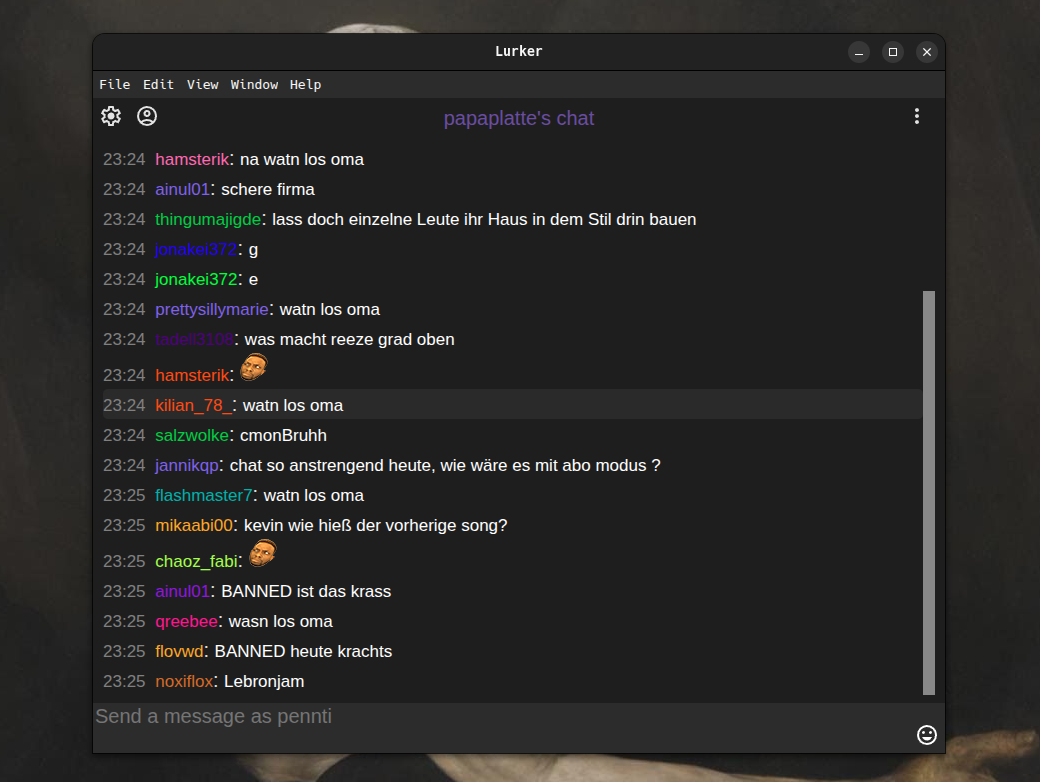
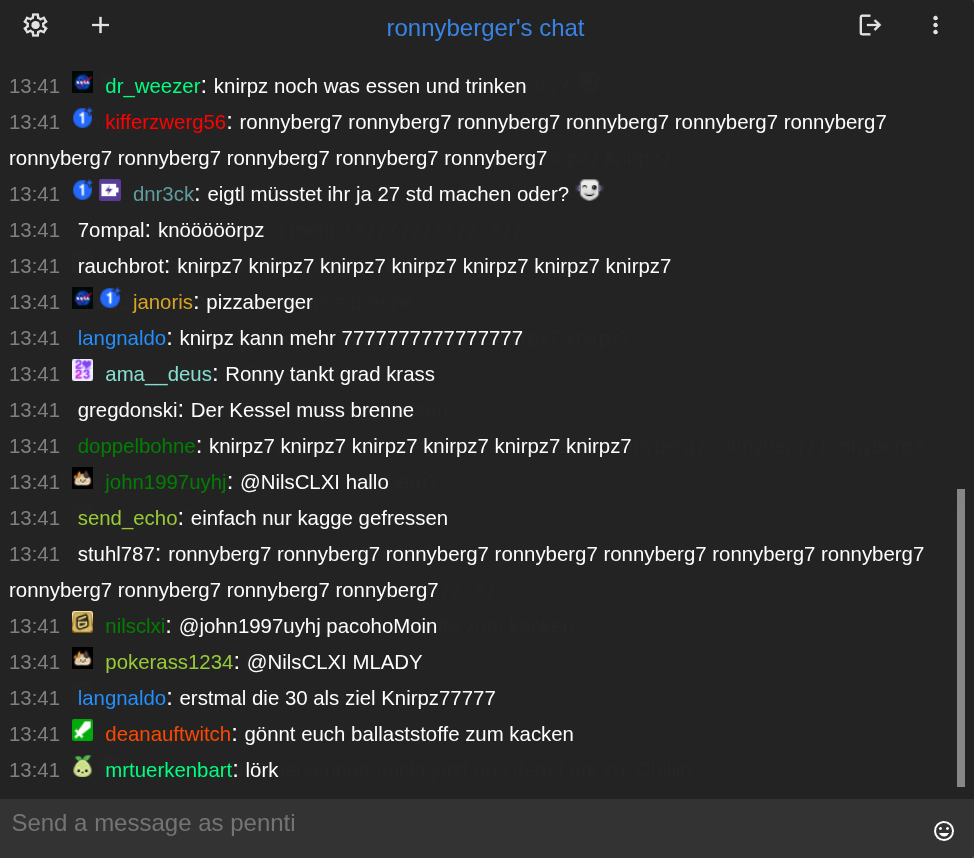
changed lurker img/changed key features/

Changed region(s): [[0.0, 0.0, 1.0, 1.0], [0.0308, 0.0, 0.0616, 0.0614], [0.8624, 0.0307, 0.8932, 0.0614]]

diff --git a/src/hero/hero.css b/src/hero/hero.css
@@ -1,20 +1,20 @@
-.container{
+.container {
   position: absolute;
   top: 40px;
-  left:0px;
-  right:0px;
+  left: 0px;
+  right: 0px;
   bottom: 0px;
   background-color: var(--hero-bg-color);
 }
 
-.desc{
-  color: #D9D9D9;
+.desc {
+  color: #d9d9d9;
   width: 400px;
-  text-align:left;
+  text-align: left;
   margin-bottom: 10px;
 }
 
-.downloads{
+.downloads {
   display: flex;
   margin-bottom: 400px;
   flex-direction: column;
@@ -24,11 +24,11 @@
   background-color: var(--bg-color);
 }
 
-.downloads a{
+.downloads a {
   margin-bottom: 300px;
 }
 
-.linux{
+.linux {
   background-color: var(--blue-color);
   border-radius: 10px;
   height: 90px;
@@ -37,39 +37,37 @@
   transition: 0.3s ease;
 }
 
-.lurker-chat{
+.lurker-chat {
   float: right;
   margin-right: 200px;
-  margin-top: -450px;
+  margin-top: -500px;
   transition: 0.3s ease;
 }
 
-.lurker-chat:hover{
+.lurker-chat:hover {
   transform: scale(1.01);
 }
 
-.linux img{
+.linux img {
   float: left;
   margin-top: 20px;
 }
 
-.linux h2{
+.linux h2 {
   color: white;
   font-size: 20px;
   margin-top: 40px;
   font-weight: bold;
-
 }
 
-.linux:hover{
+.linux:hover {
   transform: scale(1.02);
 }
 
-section{
+section {
   background-color: var(--hero-bg-color);
-
 }
-.features{
+.features {
   height: 150vh;
   display: flex;
   flex-direction: column;
@@ -80,48 +78,55 @@ section{
   text-align: center;
 }
 
-.features-box{
+.features-box {
   background-color: var(--grey-color);
   padding: 10px;
-  width: 360px;
-  height: 300px;
-  border-radius: 10px;
+  width: 450px;
+  height: 250px;
+  border-radius: 0px;
+  border: 1px solid #333;
   transition: 0.3s ease;
 }
 
-.features-box:hover{
-  transform: scale(1.02) ;
+.features-box:hover {
+  transform: scale(1.02);
 }
 
-.features-box span{
-  color: rgba(163,163,163);
+.features-box p {
+  color: rgba(163, 163, 163);
   font-size: 25px;
+  text-align: justify;
+  margin: 30px;
+  margin-top: -20px;
 }
 
-.features-box h1{
+.features-box h1 {
+  display: flex;
+  justify-content: left;
+  margin-left: 0px;
   font-size: 30px;
+  margin-bottom: 0px;
+  font-weight: medium;
+  margin: 30px;
 }
 
-.layout{
+.layout {
   display: flex;
   flex-direction: column;
-  text-align:left;
+  text-align: left;
 }
 
-h2{
+h2 {
   color: white;
 }
 
-
-
-.feature-grid{
-  display:grid;
-  grid-template-columns: repeat(3,1fr);
+.feature-grid {
+  display: grid;
+  grid-template-columns: repeat(2, 1fr);
   gap: 40px;
 }
 
-
-.hero-text{
+.hero-text {
   display: grid;
   margin-top: 200px;
   justify-content: left;
@@ -129,20 +134,17 @@ h2{
   text-align: center;
 }
 
-
-.preview{
+.preview {
   display: flex;
   justify-content: right;
-
 }
 
-.hero-text h1{
+.hero-text h1 {
   margin-bottom: 0px;
   margin-left: -80px;
 }
 
-.hero-text span{
+.hero-text span {
   color: #949494;
   font-size: 30px;
 }
-

diff --git a/src/hero/hero.html b/src/hero/hero.html
@@ -2,61 +2,49 @@
 <div class="container" #home id="home">
   <div class="hero-text">
     <h1>Lurker</h1>
-    <span class="desc">opensource chat client  for twitch.tv</span>
-    <br>
+    <span class="desc">opensource chat client for twitch.tv</span>
+    <br />
     <a target="_blank" href="https://github.com/Moritz344/lurker/releases">
-    <div class="linux" #downloads>
-      <img width="50" height="50" src="linux.png">
-      <h2>Download for Linux</h2>
-    </div>
+      <div class="linux" #downloads>
+        <img width="50" height="50" src="linux.png" />
+        <h2>Download for Linux</h2>
+      </div>
     </a>
   </div>
 
   <div class="lurker-chat">
-    <img src="chat.png">
+    <img width="800" src="lurker.png" />
   </div>
 
-
-
-  <section class="features" id="features" >
+  <section class="features" id="features">
     <h1>Features</h1>
     <div class="feature-grid" #features>
       <div class="features-box">
         <h1 style="text-align: center">Chat</h1>
-          <span>
-          View chat messages. View badges and emotes. See user colors for chatters. Click on any username to open their user profile card
-          </span>
+        <p>Send and receive messages in real-time</p>
       </div>
       <div class="features-box">
-        <h1 style="text-align: center">Stream Information</h1>
-        <span>
-          View stream thumbnail.
-          See current viewers.
-          See stream title.
-        </span> <br>
+        <h1 style="text-align: center">Stream</h1>
+        <p>Live stream stats at a glance (thumbnail, title, viewers)</p>
       </div>
       <div class="features-box">
-        <h1 style="text-align: center">Other Features</h1>
-        <span>
-          Switch Channels.
-          See Channels you follow.
-          Open Mod View.
-          Open Stream in Browser.
-          Clear Chat.
-          Disconnect from Stream.
-        </span> <br>
+        <h1 style="text-align: center">Emotes</h1>
+        <p>Channel emotes, global emotes and badges</p>
+      </div>
+      <div class="features-box">
+        <h1 style="text-align: center">Privacy</h1>
+        <p>Open source, no data collection. Your data stays on your device.</p>
       </div>
     </div>
   </section>
 
-  <section class="downloads" id="downloads" >
+  <section class="downloads" id="downloads">
     <h1>Downloads</h1>
     <a target="_blank" href="https://github.com/Moritz344/lurker/releases">
-    <div class="linux" #downloads>
-      <img width="50" height="50" src="linux.png">
-      <h2>Download for Linux</h2>
-    </div>
+      <div class="linux" #downloads>
+        <img width="50" height="50" src="linux.png" />
+        <h2>Download for Linux</h2>
+      </div>
     </a>
   </section>
-
 </div>

diff --git a/src/topbar/topbar.html b/src/topbar/topbar.html
@@ -1,10 +1,10 @@
 <div class="container">
   <div class="options">
-    <button class="home" (click)="navigate('')" > <a>Home</a> </button>
-    <button (click)="scrollToElement('features')">
+    <button class="home" (click)="navigate('')"><a>Home</a></button>
+    <button (click)="navigateToFragment('features')">
       <a> Features </a>
     </button>
-    <button (click)="scrollToElement('downloads')">
+    <button (click)="navigateToFragment('downloads')">
       <a> Download </a>
     </button>
     <button>
@@ -13,7 +13,7 @@
   </div>
   <div class="links">
     <a target="_blank" href="https://github.com/Moritz344/lurker">
-      <img src="github-logo.png" width="40" height="40">
+      <img src="github-logo.png" width="40" height="40" />
     </a>
   </div>
 </div>

diff --git a/src/topbar/topbar.ts b/src/topbar/topbar.ts
@@ -10,18 +10,22 @@ import { RouterModule, Router } from '@angular/router';
   styleUrl: './topbar.css',
 })
 export class Topbar {
-
-
-  constructor(private router: Router) { }
-
+  constructor(private router: Router) {}
 
   navigate(route: string) {
-    if (route == "") {
+    if (route == '') {
       this.router.navigate([route]);
       this.scrollToElement('home');
     } else {
       this.router.navigate([route]);
     }
+  }
+
+  navigateToFragment(fragment: string) {
+    this.router.navigate(['']);
+    setTimeout(() => {
+      this.scrollToElement(fragment);
+    }, 50);
   }
 
   scrollToElement(elementId: string) {
@@ -30,5 +34,4 @@ export class Topbar {
       element.scrollIntoView({ behavior: 'smooth' });
     }
   }
-
 }
